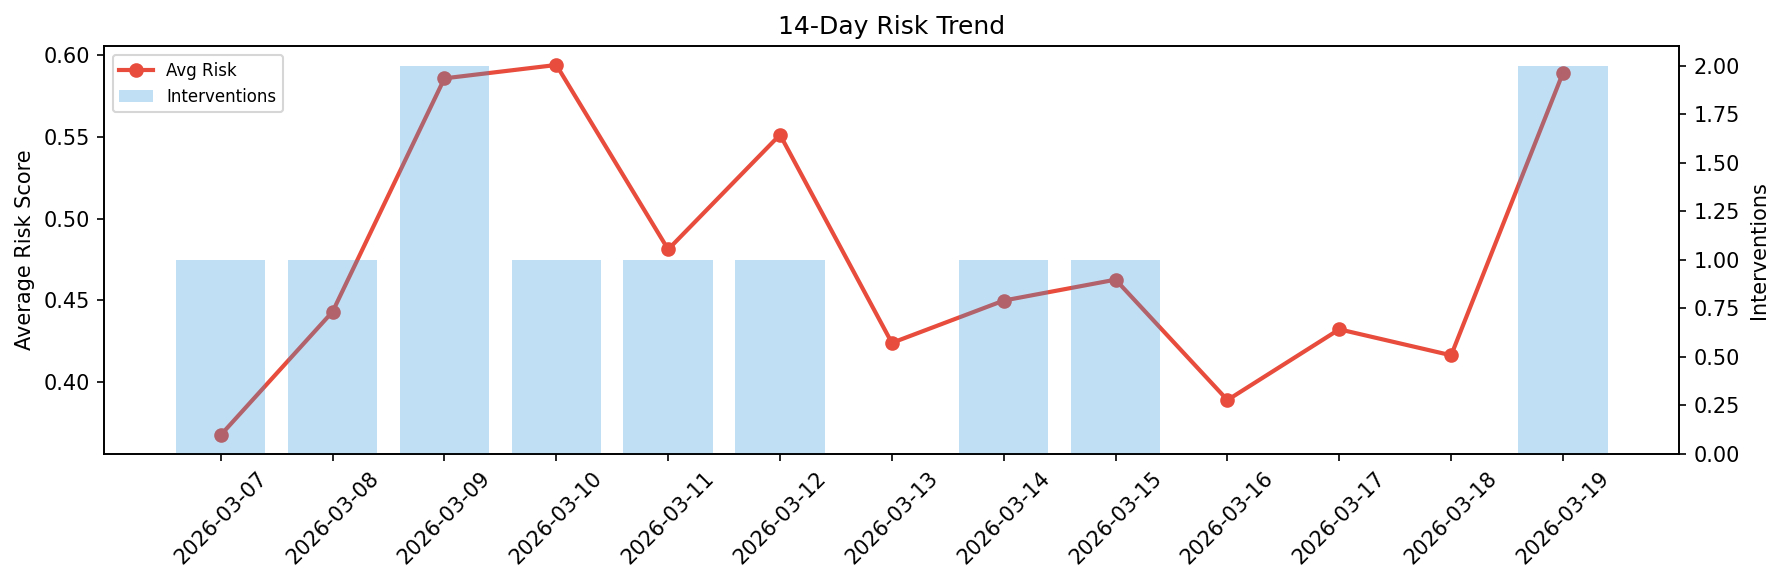
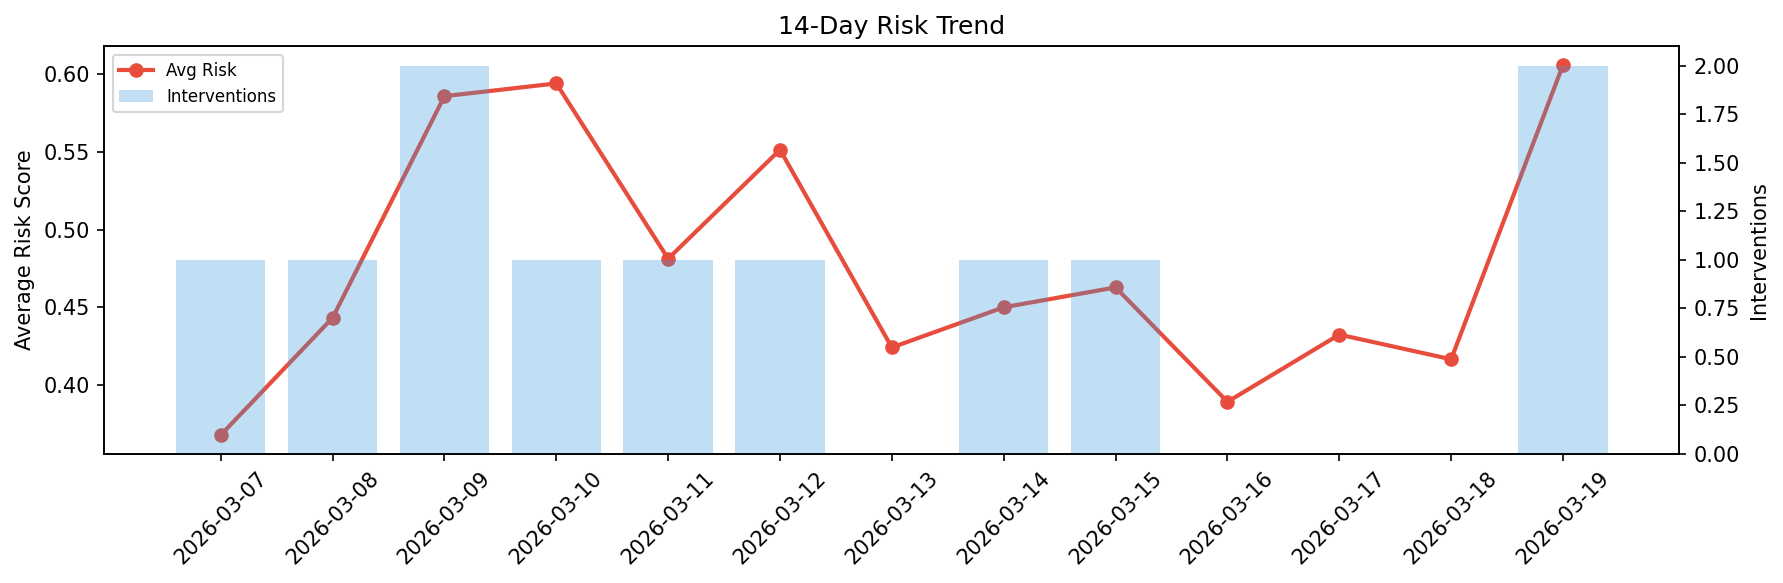
agent-improvement: daily cycle 2026-03-19T15:07

diff --git a/logs/2026-03-19.md b/logs/2026-03-19.md
@@ -1,6 +1,6 @@
 # Agent Improvement Report — 2026-03-19
 
-**Cycle ID:** `ea2a8b45` | **Avg Risk:** 0.5893 | **Interventions:** 2/4
+**Cycle ID:** `45648b4f` | **Avg Risk:** 0.606 | **Interventions:** 2/4
 
 ![Dashboard](2026-03-19_dashboard.png)
 
@@ -10,18 +10,18 @@
 
 | Domain | Risk Score | Decision | Alerts |
 |--------|-----------|----------|--------|
-| code_review | 0.6531 | intervene | coverage |
-| incident_response | 0.8786 | intervene | blast_radius, mttr |
-| data_pipeline | 0.3562 | monitor | none |
-| deployment | 0.4691 | monitor | none |
+| code_review | 0.3082 | monitor | none |
+| incident_response | 0.7423 | intervene | blast_radius |
+| data_pipeline | 0.564 | monitor | freshness |
+| deployment | 0.8097 | intervene | canary_error, latency_p99 |
 
 ## Delta vs Yesterday
 
 | Domain | Today | Yesterday | Change |
 |--------|-------|-----------|--------|
-| code_review | 0.6531 | 0.5184 | 📈 26.0% |
-| incident_response | 0.8786 | 0.1306 | 📈 572.7% |
-| data_pipeline | 0.3562 | 0.5184 | 📉 -31.3% |
-| deployment | 0.4691 | 0.4981 | 📉 -5.8% |
+| code_review | 0.3082 | 0.5184 | 📉 -40.5% |
+| incident_response | 0.7423 | 0.1306 | 📈 468.4% |
+| data_pipeline | 0.564 | 0.5184 | 📈 8.8% |
+| deployment | 0.8097 | 0.4981 | 📈 62.6% |
 
-**Refinement:** `{'adjustment': 'maintain', 'trend': 'improving', 'window': 4}`
+**Refinement:** `{'adjustment': 'tighten_thresholds', 'trend': 'degrading', 'window': 4}`
